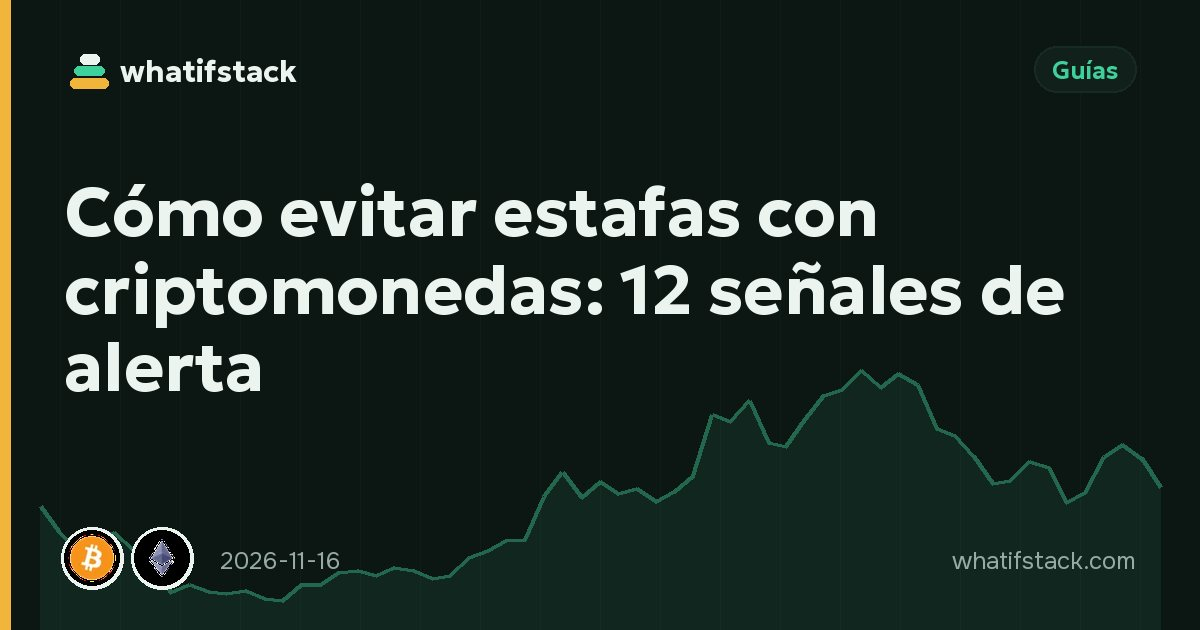
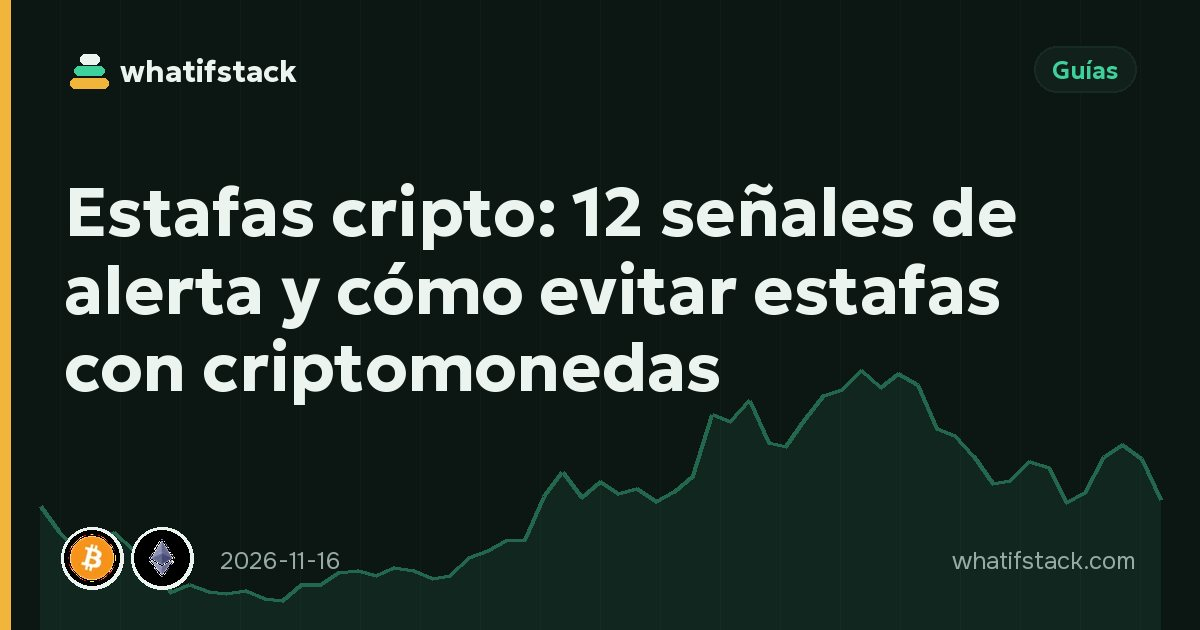
SEO: 5 pages (tr fear-and-greed-index-explained, es how-to-avoid-crypto-scams, nl amd, en longi-green-energy, tr cotton) + 10 indexing requests

Changed region(s): [[0.0308, 0.4222, 0.8942, 0.6333], [0.0617, 0.2714, 0.8633, 0.3921], [0.9558, 0.754, 0.9867, 0.7841]]

diff --git a/social/seo-log.md b/social/seo-log.md
@@ -30,8 +30,14 @@ date | url | query | impressions | position | CTR | what changed | result after 
 2026-11-27 | /blog/what-is-staking/ (uk) | що таке стейкінг 5 / 24.0; що таке стейкінг криптовалют 4 / 41.2; стейкінг криптовалют 1 / 18.0 | ~10 | ~30 | 0 % | title kept (already matches), description (4 steps, days–weeks lock-ups, 3 ways, checklist), first sentence «Стейкінг криптовалют — це…» + the 3 ways; new cover. Live check OK | due 2026-12-11
 2026-11-27 | /nl/asml-etf/ (asset) | koers asml 6 / 53.8; asml koers 5 / 45.2; koersdoel asml 5 / 58.0; asml grafiek 2 / 22.5; asml koers euro 1 / 9.0 | 42 | 58.0 | 0 % | only the asset's own nl description (data/desc/nl.json): starts «De koers van ASML hier is die van het aandeel op de Nasdaq in dollars; in Amsterdam noteert ASML op Euronext in euro…» (explains $ vs € quote). Live check OK (chart symbol ASML, 390 px OK); template meta says «−11,9% in een jaar» = the 1-year $10/day result (r1), not the price change — template, left for the owner | due 2026-12-11
 2026-11-27 | /es/cocoa/ (asset) | precio de cacao hoy 3 / 54.0; precio del cacao según la bolsa de valores 2 / 42.0; precio cacao 2 / 49.5; precio del cacao hoy 2 / 53.0; bolsa de valores de cacao 1 / 36 | 32 | 48.8 | 0 % | only the asset's own es description (data/desc/es.json): starts «El precio del cacao hoy es el del contrato de futuros de la bolsa ICE de Nueva York, en dólares por tonelada métrica…». Live check OK (own chart CC=F, 390 px OK) | due 2026-12-11
+2026-11-28 | /tr/blog/fear-and-greed-index-explained/ | bitcoin korku endeksi 6 / 35.0; korku ve açgözlülük endeksi 2 / 39.5; kripto korku evi 2 / 51 | 19 | 27.0 | 5.3 % (1 click) | title «Bitcoin korku endeksi nedir? Kripto Korku ve Açgözlülük Endeksi 0–100 nasıl okunur», description (0–24 / 75–100, 6 data sources), lead names «Bitcoin korku endeksi» and answers in sentence 1–2 (0–100, daily, mostly Bitcoin data, zones); new cover. Live check OK (no raw {{ }}, 390 px OK) | due 2026-12-12
+2026-11-28 | /es/blog/how-to-avoid-crypto-scams/ | estafas cripto 9 / 66.3; bloquear fondos exchange estafa 8 / 61.8 | 17 | 64.2 | 0 % | title «Estafas cripto: 12 señales de alerta y cómo evitar estafas con criptomonedas», description (12 signs, fake support, exchange that blocks funds and asks to pay to withdraw — already covered in sign 3 + «Otras señales»), lead answers in sentence 1 (the signs + don't send money under pressure); new cover. Live check OK | due 2026-12-12
+2026-11-28 | /nl/amd/ (asset) | amd koers 10 / 48.7; koers amd 6 / 36.0; aandeel amd 4 / 54.2; amd aandeel 2 / 37.5 | 29 | 39.7 | 0 % | only the asset's own nl description (data/desc/nl.json): starts «De AMD-koers is de prijs van het aandeel AMD … op de Nasdaq, in dollars» + the company facts. Live check OK (chart symbol AMD, 390 px OK) | due 2026-12-12
+2026-11-28 | /en/longi-green-energy/ (asset) | longi green energy technology stock 7 / 49.9; longi stock price 4 / 38.8; longi green energy stock 4 / 41.5; longi green energy share price 4 / 44.0 | 26 | 48.0 | 0 % | only the asset's own en description (data/desc/en.json): starts «LONGi Green Energy Technology stock (601012) trades on the Shanghai Stock Exchange in yuan; price shown in US dollars with the yuan price next to it». Live check: chart SSE:601012 OK, local price ¥10.97 OK, 390 px OK; company logo is an empty white circle and the buy button says «Buy 601012 · Bybit» (partner/template code — not touched) | due 2026-12-12
+2026-11-28 | /tr/cotton/ (asset) | pamuk endeksi 8 / 42.5; cotton hisse 4 / 11.0; amerikan pamuk 3 / 68.3 | 18 | 41.1 | 0 % | only the asset's own tr description (data/desc/tr.json): starts «Pamuk fiyatı (pamuk endeksi), New York'taki ICE borsasında işlem gören Cotton No. 2 vadeli kontratının fiyatıdır, libre başına dolar». Live check OK (own monthly chart, CT=F cents→$ correct, 390 px OK); buy button «Satın al COTTON · Bybit» on a commodity — template, not touched | due 2026-12-12
 
 ## Notes (not changed — template/code pages, for the owner)
+- 2026-11-28: same big template/junk pages as before (/pt/converter/ 679 / 8.2, /it/ /fr/ /ru/ /es/ /pl/ /ja/converter/ 150–295, /zh/largest-companies/dividend/ 171 / 2.0). /nl/smc/ 17 / 15.4 («smc aandeel») skipped — its analysis was written 2026-11-25, title already «SMC-aandeel (6273)…». «quotazione petrolio» 10 / 9.1 and «russische aandelen» 22 / 36 / «invertir en acciones de hong kong» 14 / 38 land on template pages (/it/wti/ changed 11-25; country stock pages) — left. Search Console overview: 16.4k pages indexed, 59.9k not indexed. No change is due for its 14-day result before 2026-12-07.
 - 2026-11-27: template meta on asset pages reads «{r1} in een jaar / en un año» but r1 is the 1-year $10/day DCA result, not the price change (e.g. /es/cocoa/ «+8,99% en un año» while the price is −1.9% vs 12 months ago; /nl/asml-etf/ «−11,9%» while the price is ~+24%) — code in scripts/i18n_ap.py + build.py, not touched (owner decision). /csu/revenue/ 17 / 4.5 («constellation software») and /ghc/ 36 / 8.0 («graham holdings» on the uk page; GHC analysis written 2026-11-25) left alone. Earlier changes not due before 2026-12-07.
 - 2026-11-26: biggest pages are still template hubs with junk/anonymised queries: /pt/converter/ 639 / 8.3, /it/converter/ 295, /fr/converter/ 230, /ru/largest-companies/ 193 / 9.0 (2 clicks), /zh/largest-companies/dividend/ 169 / 2.0. /ru/converter/usdt-rub/ 36 / 22.5 («из usdt в рубли», «курс usdt к рублю») and /en/aapl/market-cap/ 51 / 72 («apple market cap») are template pages — left alone. Earlier changes (2026-11-23…25) are not due before 2026-12-07.
 - 2026-11-25: /pt/converter/ is now 632 impr / pos 8.3 (was 486) — same junk-query pattern; /en/nvda/ 111 / 8.0 and /it/nvda/ 107 / 6.1, /ru/news/nvidia-plunges-…/ 90 / 7.9, /en/blog/nvidia-10-dollars-a-day/ 73 / 6.9 — Search Console shows (almost) no queries for them (anonymised), nothing to target. «gümüş gram euro» 84 / 25 lands on /de/converter/gram-eur/ (GRAM coin, not silver grams) — wrong intent, left alone.
@@ -77,3 +83,13 @@ Rule (owner 2026-11-25): each URL is requested ONCE — never request a URL that
 | 2026-11-27 | https://whatifstack.com/nl/blog/largest-dutch-companies/ | not indexed | requested («Отправлен запрос на индексирование») |
 | 2026-11-27 | https://whatifstack.com/ko/blog/largest-taiwanese-companies/ | not indexed | requested («Отправлен запрос на индексирование») |
 | 2026-11-27 | https://whatifstack.com/ja/blog/largest-taiwanese-companies/ | not indexed | requested («Отправлен запрос на индексирование») |
+| 2026-11-28 | https://whatifstack.com/hi/blog/how-to-buy-bitcoin-in-india/ | not indexed (URL unknown to Google) | requested («Отправлен запрос на индексирование») |
+| 2026-11-28 | https://whatifstack.com/en/blog/how-to-buy-bitcoin-in-india/ | not indexed (URL unknown to Google) | requested («Отправлен запрос на индексирование») |
+| 2026-11-28 | https://whatifstack.com/ja/blog/how-to-buy-bitcoin-in-japan/ | not indexed (URL unknown to Google) | requested («Отправлен запрос на индексирование») |
+| 2026-11-28 | https://whatifstack.com/en/blog/how-to-buy-bitcoin-in-japan/ | not indexed (URL unknown to Google) | requested («Отправлен запрос на индексирование») |
+| 2026-11-28 | https://whatifstack.com/en/blog/largest-italian-companies/ | not indexed (URL unknown to Google) | requested («Отправлен запрос на индексирование») |
+| 2026-11-28 | https://whatifstack.com/ja/blog/largest-italian-companies/ | not indexed (URL unknown to Google) | requested («Отправлен запрос на индексирование») |
+| 2026-11-28 | https://whatifstack.com/ar/blog/akbar-alsharikat-alsaudia-10-dollar-5-sanawat/ | not indexed (URL unknown to Google) | requested («Отправлен запрос на индексирование») |
+| 2026-11-28 | https://whatifstack.com/news/ukraine-crypto-tax-law-10225-how-much-to-pay/ | not indexed (URL unknown to Google) | requested («Отправлен запрос на индексирование») |
+| 2026-11-28 | https://whatifstack.com/en/news/ukraine-crypto-tax-law-10225-how-much-to-pay/ | not indexed (URL unknown to Google) | requested («Отправлен запрос на индексирование») |
+| 2026-11-28 | https://whatifstack.com/en/news/why-is-the-stock-market-up-today-black-friday-november-2026/ | not indexed (URL unknown to Google) | requested («Отправлен запрос на индексирование») |

diff --git a/content/blog/es/how-to-avoid-crypto-scams.md b/content/blog/es/how-to-avoid-crypto-scams.md
@@ -1,11 +1,11 @@
 ---
-title: Cómo evitar estafas con criptomonedas: 12 señales de alerta
-description: Cómo evitar estafas con criptomonedas: 12 señales de alerta, de sorteos falsos y phishing a rug pulls y falso soporte, con casos reales y qué hacer si caes.
+title: "Estafas cripto: 12 señales de alerta y cómo evitar estafas con criptomonedas"
+description: "Estafas cripto: 12 señales de alerta, del falso soporte al exchange que bloquea tus fondos y pide pagar para retirar, y qué hacer si ya caíste."
 date: 2026-11-16
 category: guides
 assets: btc, eth
 ---
-**¿Cómo evitar estafas con criptomonedas?** Hoy son uno de los fraudes más caros del mundo. En su informe de 2025, el Centro de Denuncias de Delitos en Internet del FBI contabilizó unos **11.000 millones de dólares** en pérdidas relacionadas con cripto solo entre víctimas de Estados Unidos. Los analistas de blockchain de Chainalysis calcularon que las estafas recaudaron en todo el mundo unos **17.000 millones de dólares** en 2025, y que las suplantaciones de identidad fueron las que más crecieron.
+**¿Cómo evitar las estafas cripto?** Aprende las 12 señales de alerta de abajo —promesas de ganancias fijas, falso soporte, un exchange que bloquea tus fondos y te pide pagar para retirarlos— y no envíes dinero a nadie que te meta prisa. Las estafas con criptomonedas son hoy uno de los fraudes más caros del mundo. En su informe de 2025, el Centro de Denuncias de Delitos en Internet del FBI contabilizó unos **11.000 millones de dólares** en pérdidas relacionadas con cripto solo entre víctimas de Estados Unidos. Los analistas de blockchain de Chainalysis calcularon que las estafas recaudaron en todo el mundo unos **17.000 millones de dólares** en 2025, y que las suplantaciones de identidad fueron las que más crecieron.
 
 La buena noticia: casi todas las estafas muestran las mismas pocas señales de alerta. Apréndelas una vez y será mucho más difícil engañarte.
 

diff --git a/content/blog/tr/fear-and-greed-index-explained.md b/content/blog/tr/fear-and-greed-index-explained.md
@@ -1,11 +1,11 @@
 ---
-title: Kripto Korku ve Açgözlülük Endeksi nedir, nasıl okunur?
-description: Kripto Korku ve Açgözlülük Endeksi neyi ölçer, 0–100 puanı nasıl oluşur ve geçmiş veriler aşırı korku ile aşırı açgözlülük okumaları hakkında ne gösteriyor.
+title: "Bitcoin korku endeksi nedir? Kripto Korku ve Açgözlülük Endeksi 0–100 nasıl okunur"
+description: "Bitcoin korku endeksi 0–100 arası tek bir sayı: 0–24 aşırı korku, 75–100 aşırı açgözlülük. 6 veri kaynağı, nasıl okunur ve geçmişte ne oldu."
 date: 2026-11-16
 category: guides
 assets: btc, eth
 ---
-**Kripto Korku ve Açgözlülük Endeksi** (Crypto Fear & Greed Index), kripto piyasasının ruh halini özetlemeye çalışan 0 ile 100 arasında tek bir sayıdır. Düşük değerler insanların korktuğunu, yüksek değerler açgözlü olduklarını gösterir.
+**Bitcoin korku endeksi**, yani **Kripto Korku ve Açgözlülük Endeksi** (Crypto Fear & Greed Index), kripto piyasasının ruh halini özetleyen 0 ile 100 arasında tek bir sayıdır ve her gün ağırlıklı olarak Bitcoin verilerinden hesaplanır. 0–24 aşırı korku, 75–100 aşırı açgözlülük demektir: düşük değerler insanların korktuğunu, yüksek değerler açgözlü olduklarını gösterir.
 
 Bugünkü değeri [ana sayfamızdaki]({lang}/) canlı göstergede görebilirsiniz. Bu rehber sayının neyden oluştuğunu, nasıl okunacağını ve geçmişteki aşırı okumalardan sonra ne olduğunu anlatıyor.
 
